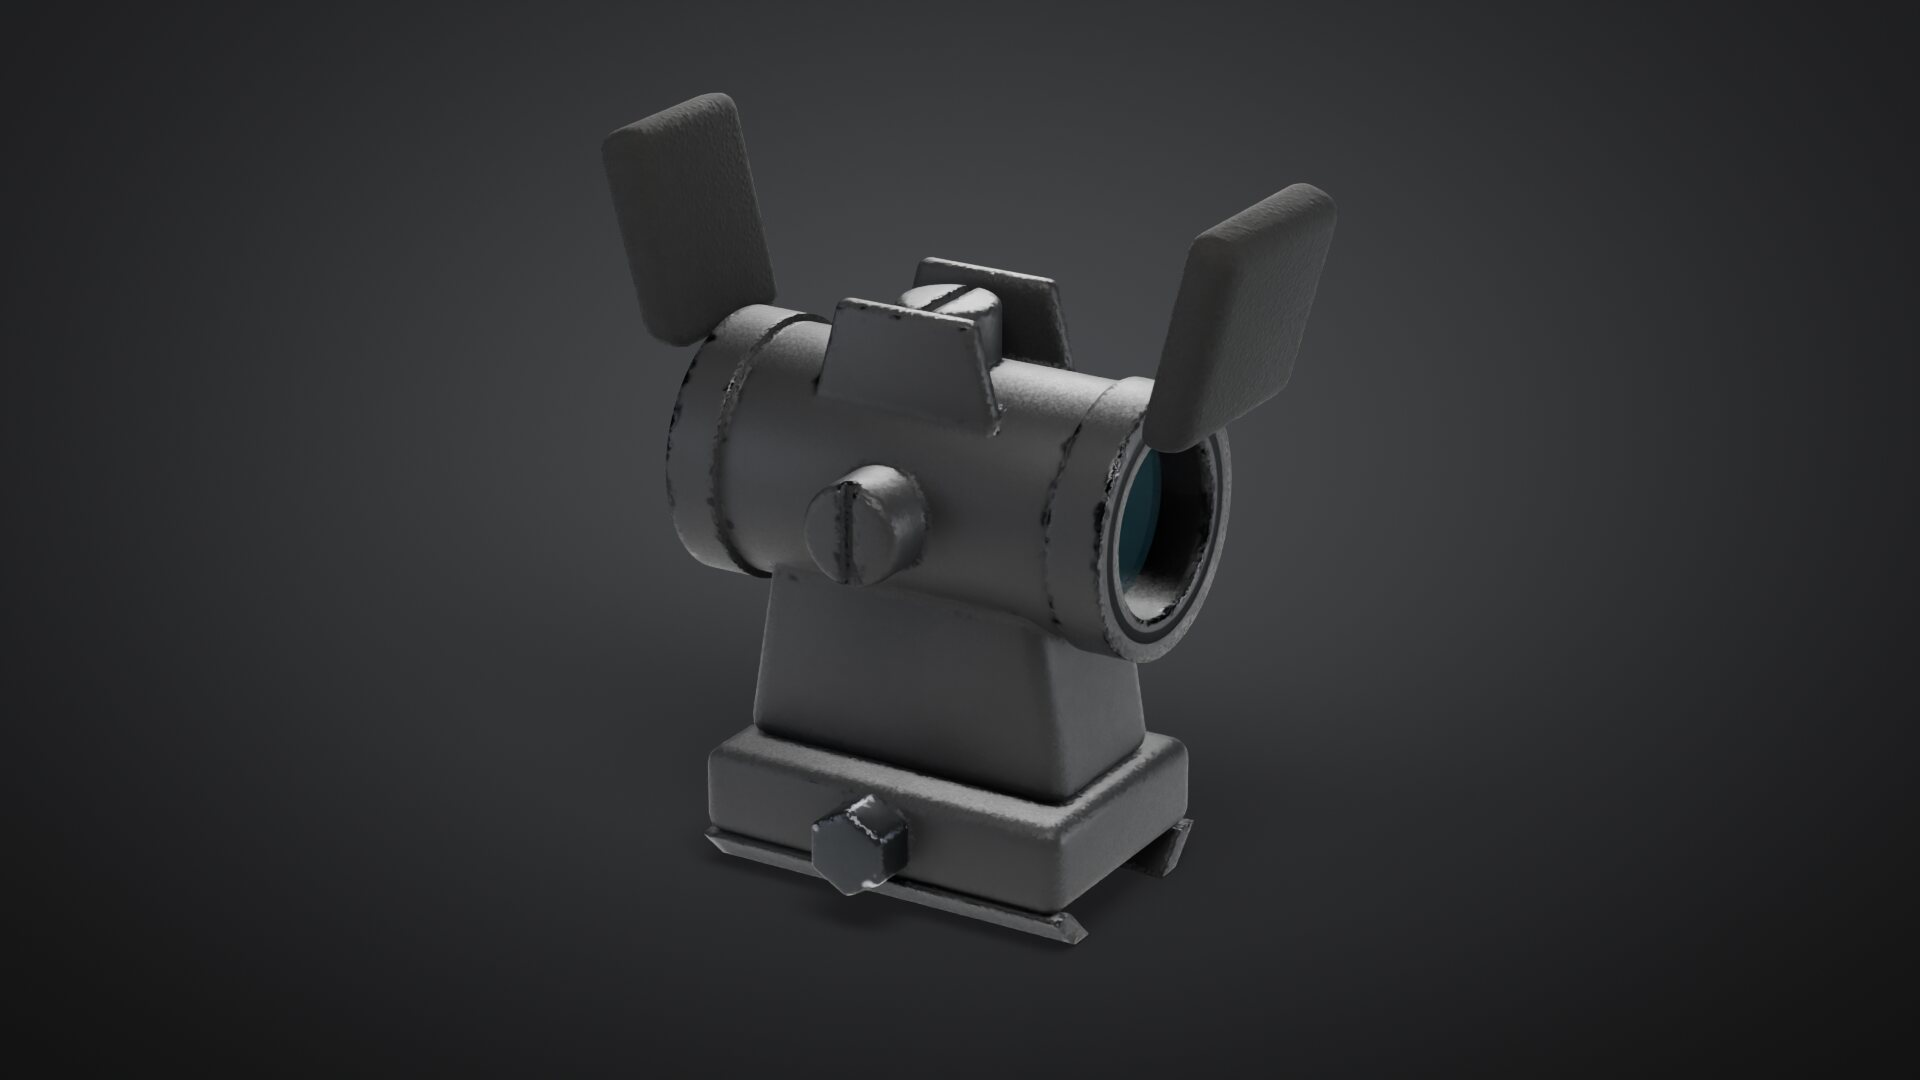
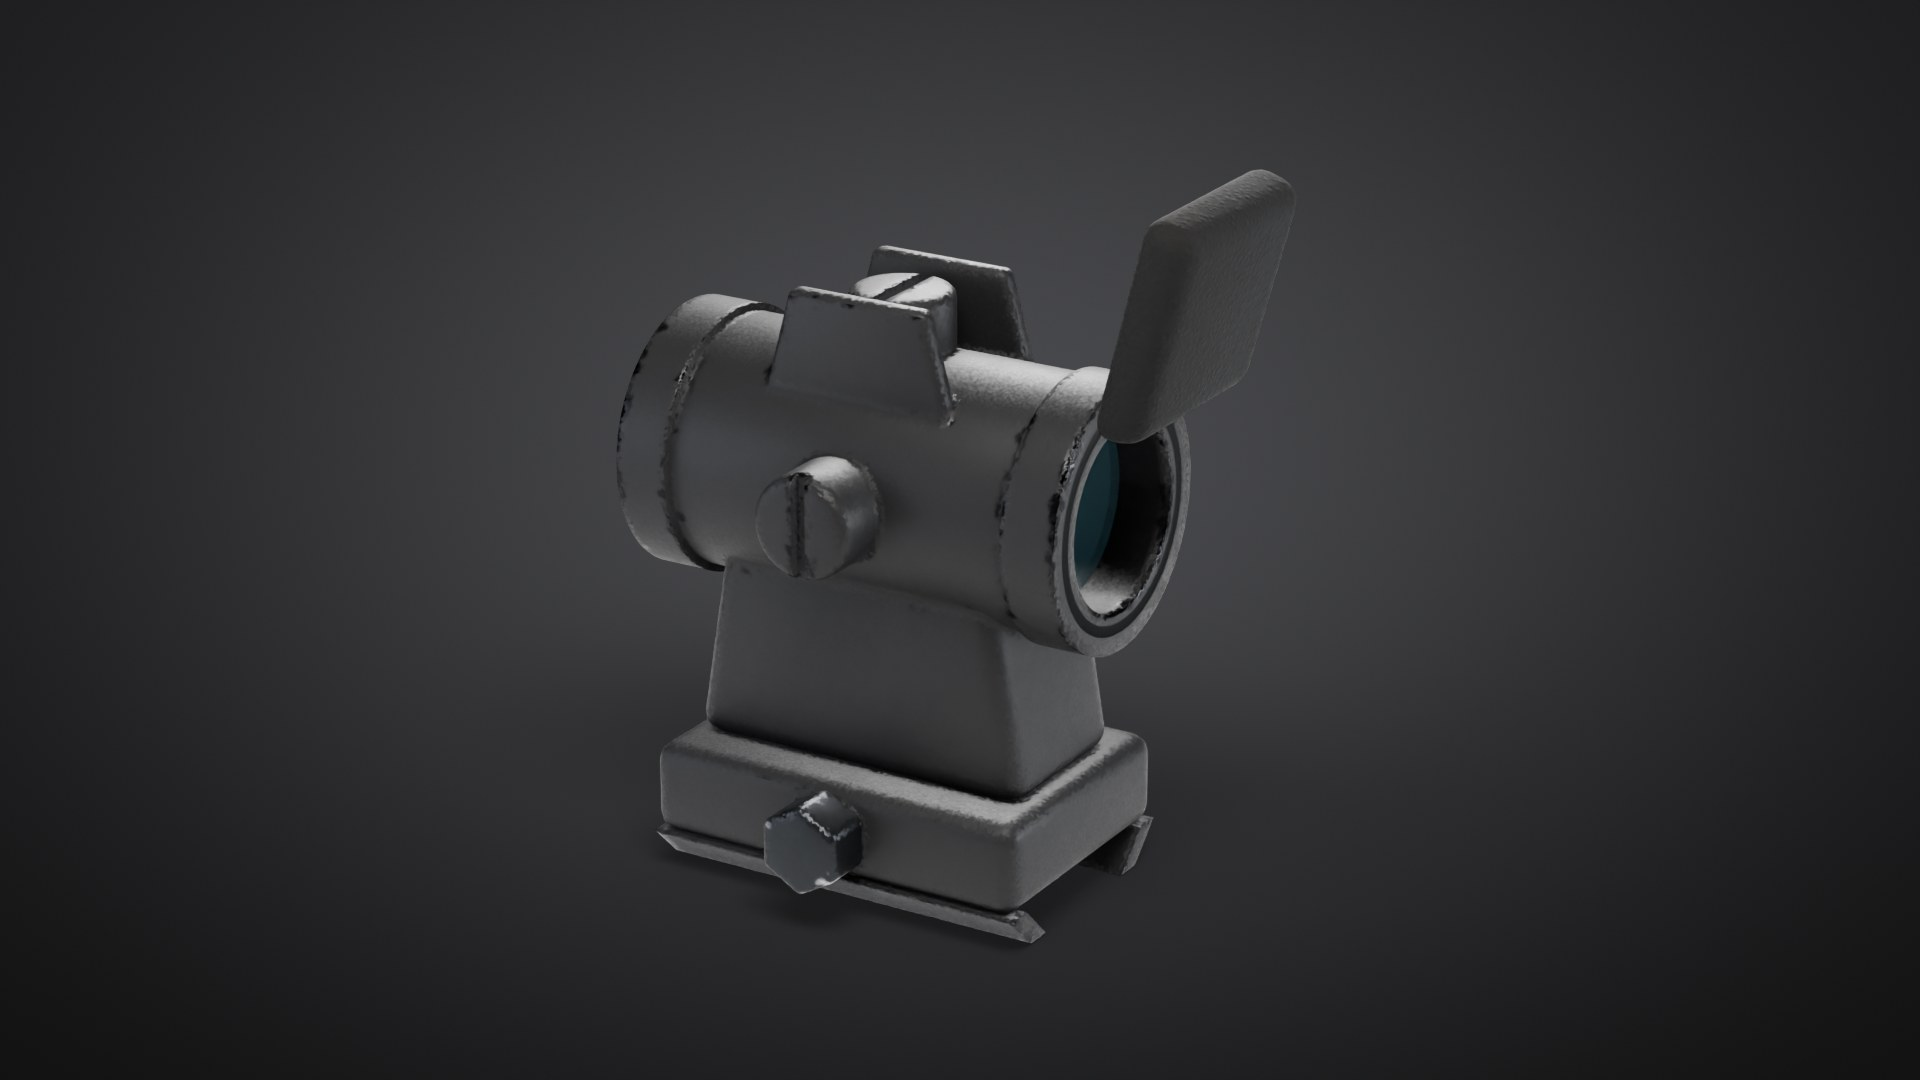
Red dot: drop the rear flip-up cover that blocked the aiming view
Open, the rear cover stood about 7 cm from the eye and 3.4 cm above the sight line,
so it filled the top of the aim-down-sights picture. The generator no longer builds
it, the art branch mesh has it removed (UVs and textures unchanged), the asset
bounds are updated and the product shot is re-rendered.

Claude-Session: https://claude.ai/code/session_0118nFYumEjG82mLGbGwmWwA

Changed region(s): [[0.3438, 0.1528, 0.6875, 0.8861], [0.3125, 0.3972, 0.4688, 0.55], [0.3125, 0.0917, 0.375, 0.1222]]

diff --git a/Tools/Blender/weapons/build_weapons.py b/Tools/Blender/weapons/build_weapons.py
@@ -1574,9 +1574,9 @@ def build_reddot(g):
     for sx in (-1, 1):
         g.body(side([(-0.06, Z + 0.03), (0.06, Z + 0.03), (0.04, Z + 0.105), (-0.04, Z + 0.105)], 0.012, x=sx * 0.04, bev=0.004))
     g.body(cyl_x(-0.1, -0.06, 0.03, y=0.0, z=Z, seg=16, bev=0.006))
-    # flip-up lens covers (open), cross bolt nut
+    # front flip-up lens cover (open), cross bolt nut. No rear cover: open, it stood ~7 cm from the eye and
+    # filled the top of the aim-down-sights view.
     g.add("Rubber", side([(0.14, Z + 0.06), (0.17, Z + 0.06), (0.2, Z + 0.17), (0.17, Z + 0.18)], 0.12, bev=0.012, seg=2))
-    g.add("Rubber", side([(-0.16, Z + 0.06), (-0.13, Z + 0.06), (-0.16, Z + 0.18), (-0.19, Z + 0.17)], 0.1, bev=0.012, seg=2))
     g.mats["Rubber"] = "rubber"
     g.metal(cyl_x(0.075, 0.105, 0.025, y=0.0, z=0.025, seg=6, bev=0.003))
     g.add("Glass", cyl_y(0.095, 0.1, 0.05, z=Z, seg=24))
